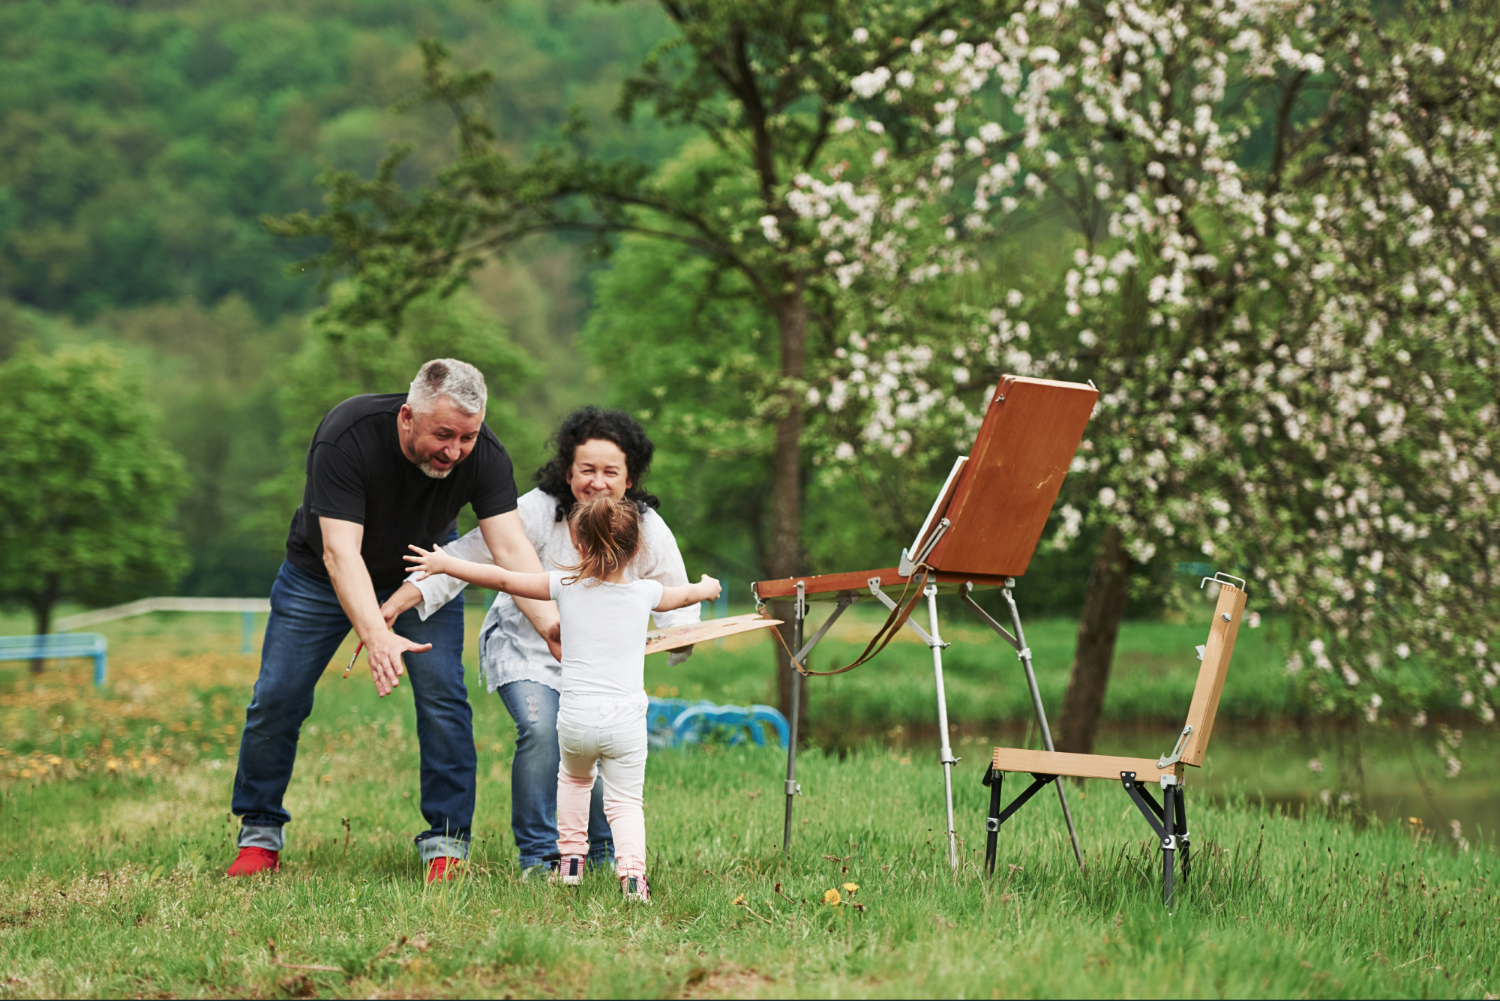
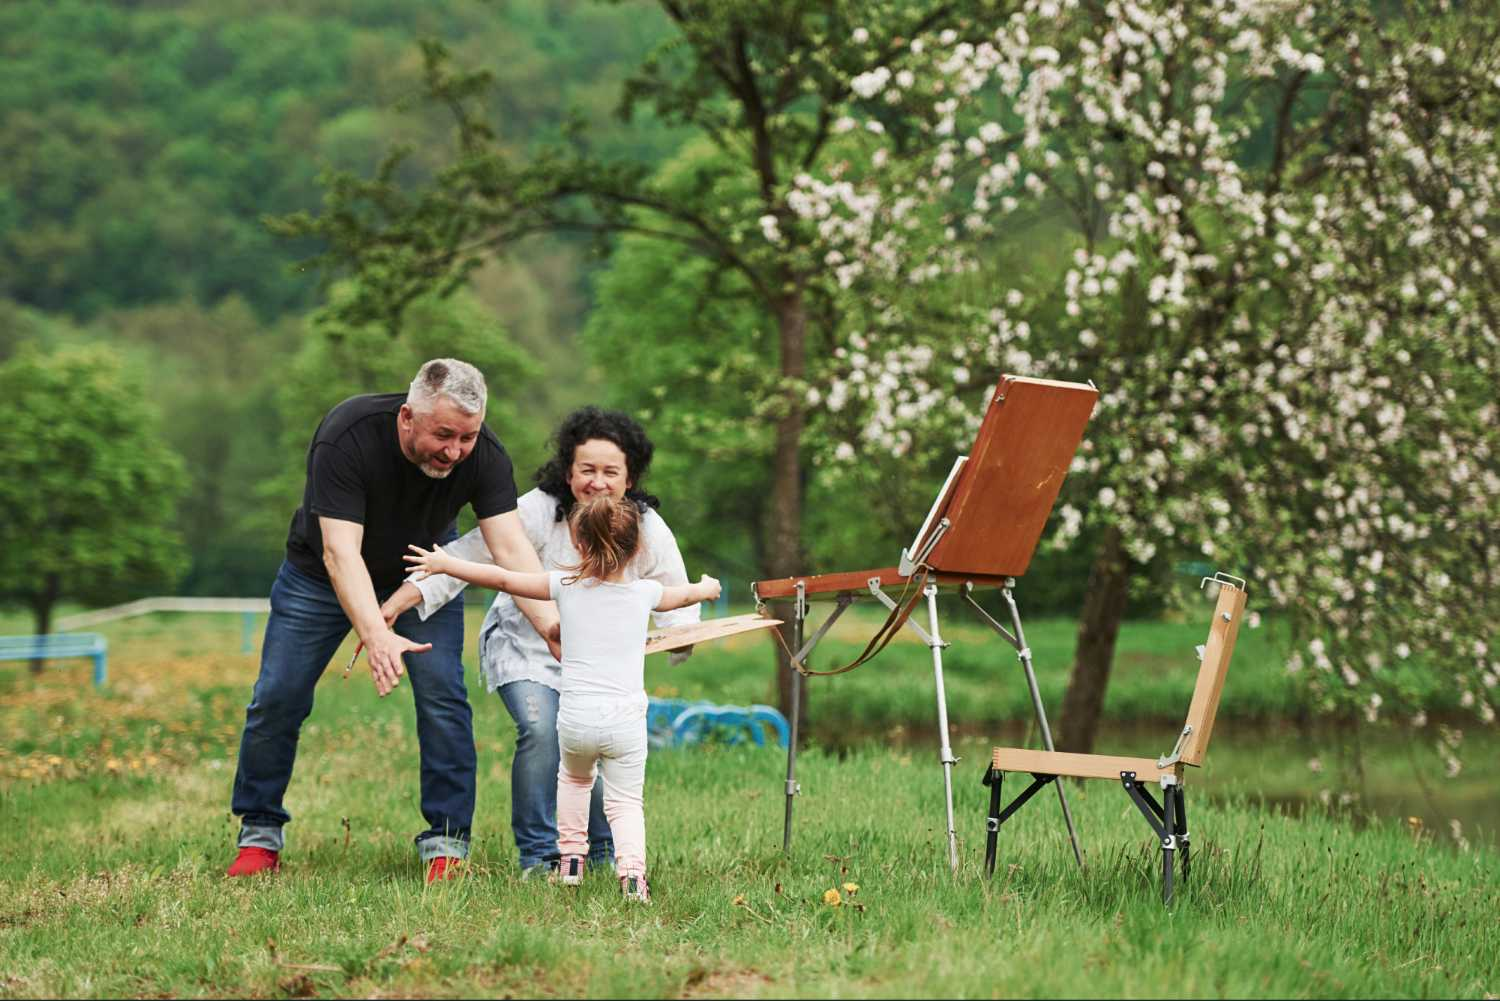
all pages changes added

diff --git a/src/Pages/SocialImpact.jsx b/src/Pages/SocialImpact.jsx
@@ -1,35 +1,35 @@
 import React, { useEffect } from "react";
 import AOS from "aos";
 import "aos/dist/aos.css";
-import img2 from '../Assets/Tree plantation & biodiversity.jpg'
+import img2 from '../Assets/Tree.jpg'
 import img3 from '../Assets/ngo.jpg'
 import img4 from '../Assets/ist1.jpg'
 import img5 from '../Assets/ist14.jpg'
 import img6 from '../Assets/ist12.jpg'
 import img7 from '../Assets/impcat.jpg'
-import img8 from '../Assets/Solar Powered Community.jpg'
-import img9 from '../Assets/nhai.avif'
+// import img8 from '../Assets/Solar Powered Community.jpg'
+// import img9 from '../Assets/nhai.avif'
 import whitelogo from '../Assets/white-logo.png'
 
 
 function SocialImpact() {
-          useEffect(() => {
-                          AOS.init({
-                            duration: 1000, // animation duration in ms
-                            once: true,     // whether animation should happen only once
-                          });
-                        }, []);
-  return (
-   <>
-         <div className='ab-banner ab-banner2'>
- <div className='ab-banner-overlay'>
-<img className="small-banner-logo" src={whitelogo} data-aos="fade-up"/>
-<h3 className='Belleza' data-aos="fade-up">SOCIAL IMPACT</h3>
+        useEffect(() => {
+                AOS.init({
+                        duration: 1000, // animation duration in ms
+                        once: true,     // whether animation should happen only once
+                });
+        }, []);
+        return (
+                <>
+                        <div className='ab-banner ab-banner2'>
+                                <div className='ab-banner-overlay'>
+                                        <img className="small-banner-logo" src={whitelogo} data-aos="fade-up" />
+                                        <h3 className='Belleza' data-aos="fade-up">SOCIAL IMPACT</h3>
 
-    </div>
-    </div>
+                                </div>
+                        </div>
 
-    {/* <div className='SocialImpact-div'>
+                        {/* <div className='SocialImpact-div'>
     <div className='impact-card'>
         <div className='impact-circle'>
 <svg xmlns="http://www.w3.org/2000/svg" width="35" height="35" viewBox="0 0 24 24" fill="none" stroke="currentColor" stroke-width="2" stroke-linecap="round" stroke-linejoin="round" class="lucide lucide-tree-palm-icon lucide-tree-palm"><path d="M13 8c0-2.76-2.46-5-5.5-5S2 5.24 2 8h2l1-1 1 1h4"/><path d="M13 7.14A5.82 5.82 0 0 1 16.5 6c3.04 0 5.5 2.24 5.5 5h-3l-1-1-1 1h-3"/><path d="M5.89 9.71c-2.15 2.15-2.3 5.47-.35 7.43l4.24-4.25.7-.7.71-.71 2.12-2.12c-1.95-1.96-5.27-1.8-7.42.35"/><path d="M11 15.5c.5 2.5-.17 4.5-1 6.5h4c2-5.5-.5-12-1-14"/></svg>
@@ -102,62 +102,62 @@ generations will cherish.</p>
        
     </div> */}
 
-    <>
-            <div className='whyus'>
-         <div className='whyus-card whyus-card2 f-tab2' data-aos="fade-up">
-        <img src={img2}/>
-        <div className='whyus-text'>
-        <h3>Tree Plantation & Biodiversity</h3>
-        <p>With over a lakh trees planted, we are building a greener tomorrow and a sanctuary where nature thrives.</p>
-        
-        </div>
-            </div>
-             <div className='whyus-card whyus-card2 f-tab4' data-aos="fade-up">
-        <img src={img3}/>
-        <div className='whyus-text'>
-        <h3>NGO contributions</h3>
-        <p>A portion of our revenue will be directed to NGOs working on various social and environmental causes.</p>
-        
-        </div>
-            </div>
-             <div className='whyus-card whyus-card2 f-tab7' data-aos="fade-up">
-        <img src={img4}/>
-        <div className='whyus-text'>
-        <h3>Support for local Institutions</h3>
-        <p>
-       We plan to improve infrastructure & resources of five nearby government schools and one hospital, fostering better education and healthcare for the community.</p>
-        
-        </div>
-            </div>
-             <div className='whyus-card whyus-card2 f-tab4' data-aos="fade-up" >
-        <img src={img5}/>
-        <div className='whyus-text'>
-        <h3>Employment opportunities</h3>
-        <p>By hiring locals, we aim to create new job opportunities, boosting the economic growth of the area and enhancing community well-being.</p>
-        
-        </div>
-            </div>
-             <div className='whyus-card whyus-card2 f-tab7' data-aos="fade-up">
-        <img src={img6}/>
-        <div className='whyus-text'>
-        <h3>Women empowerment</h3>
-        <p>Empowering women through education, skills, and jobs to ensure their active role in community building</p>
-        
-        </div>
-            </div>
-             <div className='whyus-card whyus-card2 f-tab2' data-aos="fade-up">
-        <img src={img7}/>
-        <div className='whyus-text'>
-        <h3>Legacy of Impact</h3>
-        <p>An investment in Nirvaana Hills is more than financial - it’s a legacy your future generations will cherish.</p>
-        
-        </div>
-            </div>
-           
-            </div>
-    </>
-   </>
-  )
+                        <>
+                                <div className='whyus'>
+                                        <div className='whyus-card whyus-card2 f-tab2' data-aos="fade-up">
+                                                <img src={img2} />
+                                                <div className='whyus-text'>
+                                                        <h3>Tree Plantation & Biodiversity</h3>
+                                                        <p>With over a lakh trees planted, we are building a greener tomorrow and a sanctuary where nature thrives.</p>
+
+                                                </div>
+                                        </div>
+                                        <div className='whyus-card whyus-card2 f-tab4' data-aos="fade-up">
+                                                <img src={img3} />
+                                                <div className='whyus-text'>
+                                                        <h3>NGO contributions</h3>
+                                                        <p>A portion of our revenue will be directed to NGOs working on various social and environmental causes.</p>
+
+                                                </div>
+                                        </div>
+                                        <div className='whyus-card whyus-card2 f-tab7' data-aos="fade-up">
+                                                <img src={img4} />
+                                                <div className='whyus-text'>
+                                                        <h3>Support for local Institutions</h3>
+                                                        <p>
+                                                                We plan to improve infrastructure & resources of five nearby government schools and one hospital, fostering better education and healthcare for the community.</p>
+
+                                                </div>
+                                        </div>
+                                        <div className='whyus-card whyus-card2 f-tab4' data-aos="fade-up" >
+                                                <img src={img5} />
+                                                <div className='whyus-text'>
+                                                        <h3>Employment opportunities</h3>
+                                                        <p>By hiring locals, we aim to create new job opportunities, boosting the economic growth of the area and enhancing community well-being.</p>
+
+                                                </div>
+                                        </div>
+                                        <div className='whyus-card whyus-card2 f-tab7' data-aos="fade-up">
+                                                <img src={img6} />
+                                                <div className='whyus-text'>
+                                                        <h3>Women empowerment</h3>
+                                                        <p>Empowering women through education, skills, and jobs to ensure their active role in community building</p>
+
+                                                </div>
+                                        </div>
+                                        <div className='whyus-card whyus-card2 f-tab2' data-aos="fade-up">
+                                                <img src={img7} />
+                                                <div className='whyus-text'>
+                                                        <h3>Legacy of Impact</h3>
+                                                        <p>An investment in Nirvaana Hills is more than financial - it’s a legacy your future generations will cherish.</p>
+
+                                                </div>
+                                        </div>
+
+                                </div>
+                        </>
+                </>
+        )
 }
 
 export default SocialImpact

diff --git a/src/Pages/LifeAtNirvaana.jsx b/src/Pages/LifeAtNirvaana.jsx
@@ -57,70 +57,69 @@ const timelineData = [
 ];
 
 const LifeAtNirvaana = () => {
-    useEffect(() => {
-              AOS.init({
-                duration: 1000, // animation duration in ms
-                once: true,     // whether animation should happen only once
-              });
-            }, []);
+  useEffect(() => {
+    AOS.init({
+      duration: 1000, // animation duration in ms
+      once: true,     // whether animation should happen only once
+    });
+  }, []);
   return (
     <>
-   <div className='ab-banner ab-banner2'>
- <div className='ab-banner-overlay'>
-<img className="small-banner-logo" src={whitelogo}  data-aos="fade-up"/>
-<h3 className='Belleza'  data-aos="fade-up">LIFE AT NIRVAANA</h3>
+      <div className='ab-banner ab-banner2'>
+        <div className='ab-banner-overlay'>
+          <img className="small-banner-logo" src={whitelogo} data-aos="fade-up" />
+          <h3 className='Belleza' data-aos="fade-up">LIFE AT NIRVAANA</h3>
 
-    </div>
-    </div>
-<div className="LifeNirvaana-div">
-
-    <div className="max-w-6xl mx-auto px-4 py-16 " >
-     
-
-      <div className="relative border-l-4  pl-6 space-y-24" style={{borderLeft: '10px solid #354123'}}>
-        {timelineData.map((item, index) => (
-          <motion.div
-            key={index}
-            initial={{ opacity: 0, y: 100, scale: 0.95 }}
-            whileInView={{ opacity: 1, y: 0, scale: 1 }}
-            viewport={{ once: true, amount: 0.3 }}
-            transition={{ duration: 0.8, ease: "easeOut" }}
-            className={`relative flex flex-col md:flex-row items-center gap-8 ${
-              index % 2 === 0 ? "md:flex-row" : "md:flex-row-reverse"
-            }`}
-          >
-            {/* Circle marker */}
-            <span className="absolute -left-10 w-6 h-6 rounded-full border-4 border-white shadow-lg animate-pulse" style={{backgroundColor:'#354123'}} />
-
-            {/* Image with parallax-like effect */}
-            <motion.div
-              initial={{ x: index % 2 === 0 ? -100 : 100, opacity: 0 }}
-              whileInView={{ x: 0, opacity: 1 }}
-              transition={{ duration: 0.8, ease: "easeOut" }}
-              className="flex-shrink-0 w-full md:w-1/2"
-            >
-              <img
-                src={item.image}
-                alt={item.title}
-                className="rounded-2xl shadow-xl w-full object-cover"
-              />
-            </motion.div>
-
-            {/* Text */}
-            <motion.div
-              initial={{ opacity: 0, y: 40 }}
-              whileInView={{ opacity: 1, y: 0 }}
-              transition={{ delay: 0.2, duration: 0.7 }}
-              className="w-full md:w-1/2"
-            >
-              <h3 className="text-3xl font-semibold mb-2 Belleza">{item.title}</h3>
-              <p className="text-1xl text-gray-600 leading-relaxed">{item.description}</p>
-            </motion.div>
-          </motion.div>
-        ))}
+        </div>
       </div>
-    </div>
-</div>
+      <div className="LifeNirvaana-div">
+
+        <div className="max-w-6xl mx-auto px-4 py-16 " >
+
+
+          <div className="relative border-l-4  pl-6 space-y-24" style={{ borderLeft: '10px solid #354123' }}>
+            {timelineData.map((item, index) => (
+              <motion.div
+                key={index}
+                initial={{ opacity: 0, y: 100, scale: 0.95 }}
+                whileInView={{ opacity: 1, y: 0, scale: 1 }}
+                viewport={{ once: true, amount: 0.3 }}
+                transition={{ duration: 0.8, ease: "easeOut" }}
+                className={`relative flex flex-col md:flex-row items-center gap-8 ${index % 2 === 0 ? "md:flex-row" : "md:flex-row-reverse"
+                  }`}
+              >
+                {/* Circle marker */}
+                <span className="absolute -left-10 w-6 h-6 rounded-full border-4 border-white shadow-lg animate-pulse" style={{ backgroundColor: '#354123' }} />
+
+                {/* Image with parallax-like effect */}
+                <motion.div
+                  initial={{ x: index % 2 === 0 ? -100 : 100, opacity: 0 }}
+                  whileInView={{ x: 0, opacity: 1 }}
+                  transition={{ duration: 0.8, ease: "easeOut" }}
+                  className="flex-shrink-0 w-full md:w-1/2"
+                >
+                  <img
+                    src={item.image}
+                    alt={item.title}
+                    className="rounded-2xl shadow-xl w-full object-cover"
+                  />
+                </motion.div>
+
+                {/* Text */}
+                <motion.div
+                  initial={{ opacity: 0, y: 40 }}
+                  whileInView={{ opacity: 1, y: 0 }}
+                  transition={{ delay: 0.2, duration: 0.7 }}
+                  className="w-full md:w-1/2"
+                >
+                  <h3 className="text-3xl font-semibold mb-2 Belleza">{item.title}</h3>
+                  <p className="text-1xl text-gray-600 leading-relaxed">{item.description}</p>
+                </motion.div>
+              </motion.div>
+            ))}
+          </div>
+        </div>
+      </div>
 
     </>
 

diff --git a/src/Pages/Gallery.jsx b/src/Pages/Gallery.jsx
@@ -2,13 +2,13 @@ import React from "react";
 import img1 from "../Assets/real (1).jpeg";
 import img2 from "../Assets/real (1).jpg";
 import img3 from "../Assets/real (2).jpeg";
-import img4 from "../Assets/real (2).png";
+import img4 from "../Assets/real (2).jpg";
 import img5 from "../Assets/real (3).jpeg";
 import img6 from "../Assets/real (3).jpg";
 import img7 from "../Assets/real (4).jpeg";
 import img8 from "../Assets/real (4).jpg";
 import img9 from "../Assets/real (5).jpeg";
-import img10 from "../Assets/real (5).png";
+import img10 from "../Assets/real (5).jpg";
 import img11 from "../Assets/real (6).jpeg";
 import img12 from "../Assets/real (7).jpeg";
 import whitelogo from '../Assets/white-logo.png'

diff --git a/src/Components/Galleryslider.jsx b/src/Components/Galleryslider.jsx
@@ -2,13 +2,13 @@ import React, { useState, useEffect } from "react";
 import ist from '../Assets/real (1).jpeg'
 import ist2 from '../Assets/real (1).jpg'
 import ist3 from '../Assets/real (2).jpeg'
-import ist4 from '../Assets/real (2).png'
+import ist4 from '../Assets/real (2).jpg'
 import ist5 from '../Assets/real (3).jpeg'
 import ist6 from '../Assets/real (3).jpg'
 import ist7 from '../Assets/real (4).jpeg'
 import ist8 from '../Assets/real (4).jpg'
 import ist9 from '../Assets/real (5).jpeg'
-import ist10 from '../Assets/real (5).png'
+import ist10 from '../Assets/real (5).jpg'
 
 
 const images = [

diff --git a/src/Pages/Features.jsx b/src/Pages/Features.jsx
@@ -1,10 +1,10 @@
 import React, { useEffect } from "react";
 import AOS from "aos";
 import "aos/dist/aos.css";
-import img1 from '../Assets/f1.png'
-import img2 from '../Assets/f2.png'
-import img3 from '../Assets/f3.png'
-import img4 from '../Assets/f4.png'
+// import img1 from '../Assets/f1.png'
+// import img2 from '../Assets/f2.png'
+// import img3 from '../Assets/f3.png'
+// import img4 from '../Assets/f4.png'
 import img from '../Assets/project1.png'
 import com from '../Assets/comunity.png'
 import Clubhouse from '../Assets/clube.png'

diff --git a/src/index.css b/src/index.css
@@ -102,7 +102,7 @@ padding: 20px 30px;
 
 }
 .ab-banner4{
-  background-image: url(./Assets/real\ \(5\).png);
+  background-image: url(./Assets/real\ \(5\).jpg);
 
 }
 .ab-banner5{
@@ -119,7 +119,7 @@ padding: 20px 30px;
 
 }
 .ab-banner8{
-  background-image: url(./Assets/real\ \(5\).png);
+  background-image: url(./Assets/real\ \(5\).jpg);
   background-position: center;
 
 }

diff --git a/src/Pages/LocationPage.jsx b/src/Pages/LocationPage.jsx
@@ -1,7 +1,7 @@
 import React, { useEffect } from "react";
 import AOS from "aos";
 import "aos/dist/aos.css";
-import map from '../Assets/map for web use.pdf (1).png'
+import map from '../Assets/map.jpg'
 import whitelogo from '../Assets/white-logo.png'
 
 function LocationPage() {
